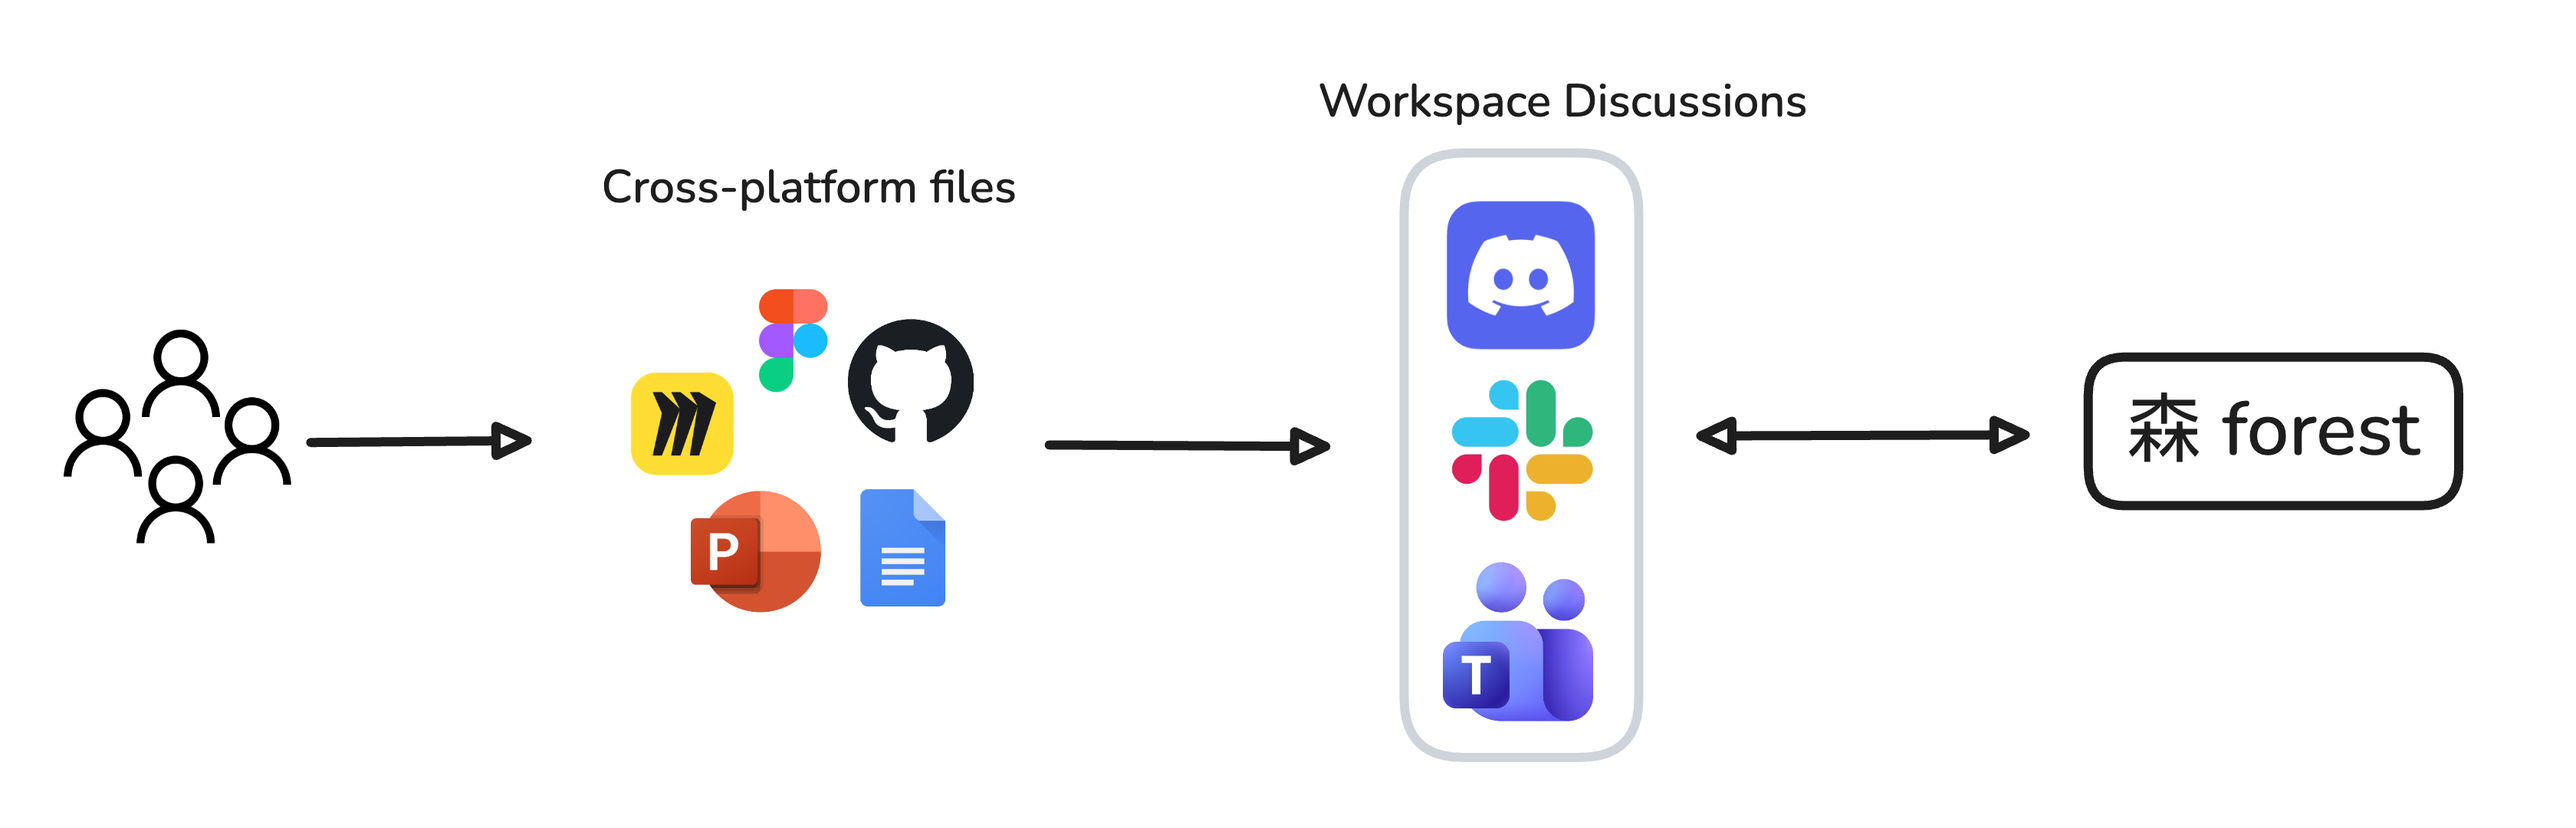
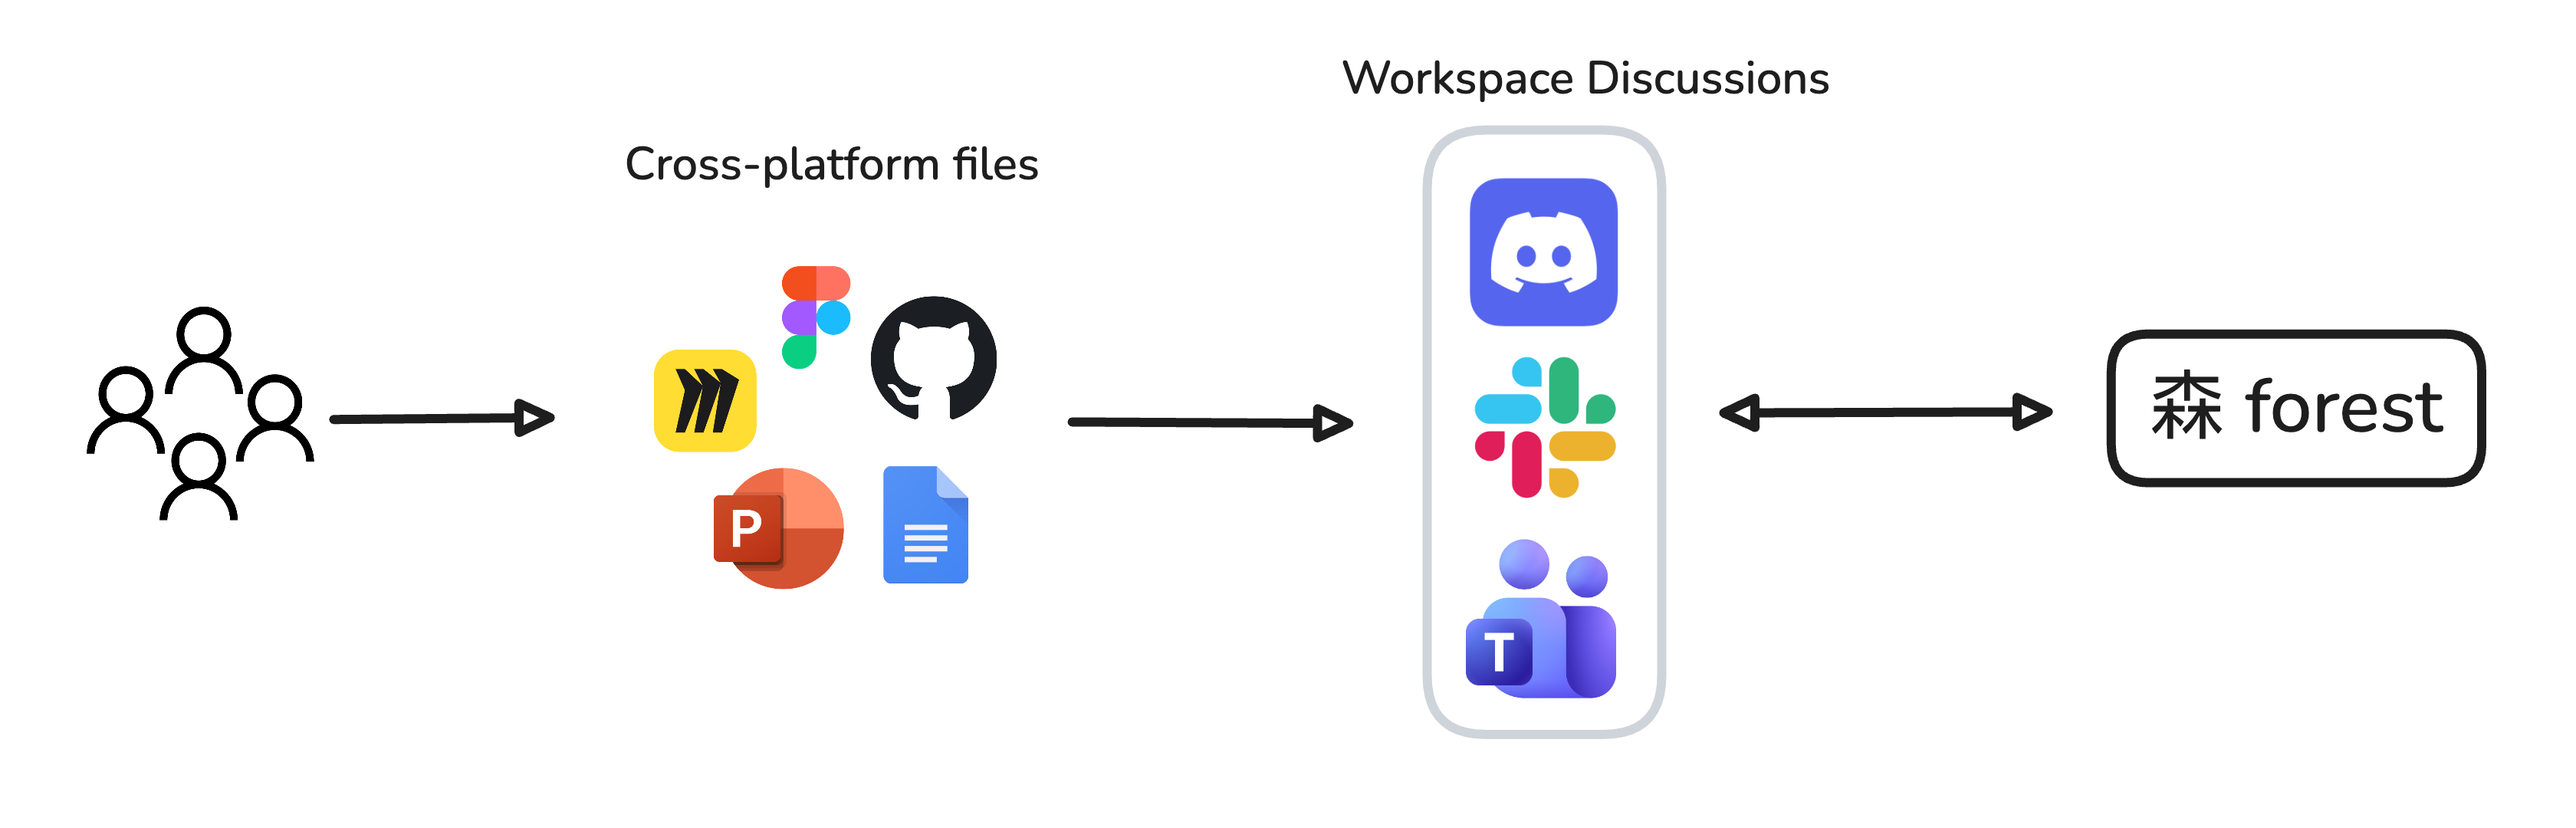
docs(forest): update rounded diagrams

Changed region(s): [[0.4062, 0.0611, 0.9688, 0.9472], [0.0312, 0.3056, 0.4062, 0.7333], [0.2188, 0.1833, 0.4062, 0.2444]]

diff --git a/README.md b/README.md
@@ -5,7 +5,7 @@
 Naturally, teams will share files from different platforms and discuss them in chat — forest listens and organizes.
 
 <p align="center">
-  <img src="public/forest-flow.png" alt="Teams create cross-platform files and discuss them in Discord, Slack, or Teams — forest connects to those conversations and builds a knowledge layer." width="700" style="border-radius: 12px;" />
+  <img src="public/forest-flow.png" alt="Teams create cross-platform files and discuss them in Discord, Slack, or Teams — forest connects to those conversations and builds a knowledge layer." />
 </p>
 
 Say _sayionara_ to organizing these yourself (or even worse, having someone else organize them!); just let your teammates create/store them in their platforms of preference, and let `森 forest` manage the rest.
@@ -16,14 +16,14 @@ Say _sayionara_ to organizing these yourself (or even worse, having someone else
 Browse your workspace tree with `/forest show`.
 
 <p align="center">
-  <img src="public/forest-show.png" alt="/forest find lets you search by natural language — ask for 'ui mockup Tim and I discussed' and get the file along with the conversation context." width="700" style="border-radius: 12px;" />
+  <img src="public/forest-show.png" alt="/forest find lets you search by natural language — ask for 'ui mockup Tim and I discussed' and get the file along with the conversation context." width="700" />
 </p>
 
 Find any file by context with `/forest find`.
 
 
 <p align="center">
-  <img src="public/forest-find.png" alt="/forest show returns a virtual file tree organized by topic — engineering, design, fundraising — pulling files from GitHub, Figma, Notion, and more." width="700" style="border-radius: 12px;" />
+  <img src="public/forest-find.png" alt="/forest show returns a virtual file tree organized by topic — engineering, design, fundraising — pulling files from GitHub, Figma, Notion, and more." width="700" />
 </p>
 
 
